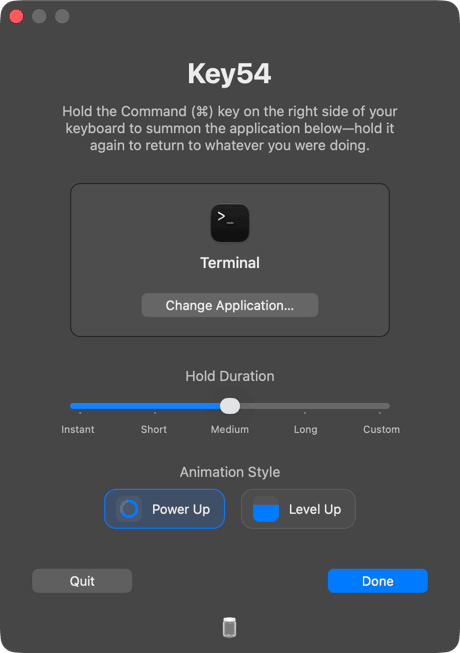
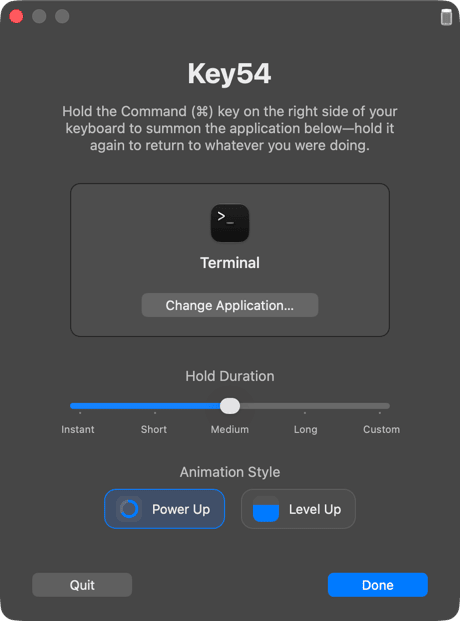
v1.10: Move Tip Jar jar into the title bar; clean up README
- main.swift: relocate the 🫙 easter egg from a centered button
  below the buttons to the title bar's top-right, mirroring the
  traffic lights (~14 pt). Bottom bar shrinks 96→64 pt; popover
  opens to the right of the jar.
- README.md: replace broken :emoji_2318: / :emoji_2615: shortcodes
  with valid GitHub ones (:keyboard:, :coffee:); drop the
  Susan Kare / 'PLACE OF INTEREST SIGN' paragraph.
- screenshots/settings.png: re-capture to match the new layout.
- Info.plist: bump CFBundleVersion / ShortVersionString to 1.10.

diff --git a/main.swift b/main.swift
@@ -631,7 +631,7 @@ class SettingsWindow: NSWindow {
         let showsAnimationStyle = (appDelegate?.selectedPreset ?? 2) >= 2
         let animationStyleBlockH: CGFloat = 68   // caption + a row of two selectable pills
         let customBlockH: CGFloat = showsCustom ? 132 : 0   // Custom timing sub-panel
-        let bottomBarH: CGFloat = 96    // Quit / Done row + coffee link + bottom margin
+        let bottomBarH: CGFloat = 64    // Quit / Done row + bottom margin
         let unitGap: CGFloat = 10       // within a unit (title ↔ description)
         let sectionGap: CGFloat = 28    // between sections — the layout's rhythm
 
@@ -840,10 +840,9 @@ class SettingsWindow: NSWindow {
             }
         }
 
-        // Bottom bar: Quit (secondary, left) + Done (primary, right), with the
-        // coffee link as its own quieter unit below.
+        // Bottom bar: Quit (secondary, left) + Done (primary, right).
         let btnW: CGFloat = 100
-        let barY: CGFloat = 56
+        let barY: CGFloat = 20
         let quitBtn = NSButton(title: "Quit", target: NSApp, action: #selector(NSApplication.terminate(_:)))
         quitBtn.frame = NSRect(x: pad, y: barY, width: btnW, height: 32)
         quitBtn.bezelStyle = .rounded
@@ -855,18 +854,19 @@ class SettingsWindow: NSWindow {
         doneBtn.keyEquivalent = "\r"
         c.addSubview(doneBtn)
 
-        // A lone jar emoji, centered below the buttons — a little easter egg
-        // that opens the support popover. No label; tooltip + pointing-hand
-        // cursor (LinkButton) hint that it's clickable.
+        // Tip Jar easter egg: a lone jar emoji tucked into the top-right of the
+        // titlebar, mirroring the traffic lights on the left. Tooltip + hand
+        // cursor (LinkButton) hint it's clickable; NSControl isn't part of the
+        // titlebar drag region, so the click still registers.
         let tipBtn = LinkButton(title: "", target: self, action: #selector(openTipJar(_:)))
         tipBtn.isBordered = false
-        // Center the emoji in the button via a centered paragraph style (more
-        // reliable than .alignment for a borderless title button).
         let jarPara = NSMutableParagraphStyle(); jarPara.alignment = .center
         tipBtn.attributedTitle = NSAttributedString(string: "🫙", attributes: [
-            .font: NSFont.systemFont(ofSize: 18), .paragraphStyle: jarPara])
+            .font: NSFont.systemFont(ofSize: 14), .paragraphStyle: jarPara])   // sized to ~match the traffic lights
         let tipW: CGFloat = 34
-        tipBtn.frame = NSRect(x: (contentW - tipW) / 2, y: 12, width: tipW, height: 26)
+        // Mirror the traffic lights: the jar's top/right padding matches their
+        // top/left padding (≈9 pt each).
+        tipBtn.frame = NSRect(x: contentW - 30, y: totalH - 30, width: tipW, height: 26)
         tipBtn.toolTip = "Tip Jar"
         c.addSubview(tipBtn)
 
@@ -1074,7 +1074,7 @@ class SettingsWindow: NSWindow {
         pop.contentSize = NSSize(width: w, height: h)
         pop.behavior = .transient
         tipPopover = pop
-        pop.show(relativeTo: sender.bounds, of: sender, preferredEdge: .maxY)
+        pop.show(relativeTo: sender.bounds, of: sender, preferredEdge: .maxX)   // opens to the right of the jar
     }
 
     @objc private func openIssues() {

diff --git a/README.md b/README.md
@@ -2,15 +2,15 @@
 
 # Key54
 
-*Your right-hand ⌘.*
+*Your right-hand :keyboard:.*
 
-**Hold the Command (⌘) key on the right side of your keyboard to summon one chosen app — hold it again to switch back to whatever you were doing.**
+**Hold the Command (:keyboard:) key on the right side of your keyboard to summon one chosen app — hold it again to switch back to whatever you were doing.**
 
-Key54 isn't another app library switcher, launcher, or palette. It doesn't try to replace ⌘-Tab, Mission Control, or Spotlight, and it doesn't pile on the features that tools like Raycast, Alfred, LaunchBar, rcmd, or Monarch already do well. It does exactly one thing: a single, dedicated key for the *one* app you reach for constantly.
+Key54 isn't another app library switcher, launcher, or palette. It doesn't try to replace :keyboard:-Tab, Mission Control, or Spotlight, and it doesn't pile on the features that tools like Raycast, Alfred, LaunchBar, rcmd, or Monarch already do well. It does exactly one thing: a single, dedicated key for the *one* app you reach for constantly.
 
-There's nothing to launch, no fuzzy search, no list of shortcuts to memorize, and no chords. You pick the app once; after that it's pure muscle memory — like a push-to-talk button for your terminal, notes, browser, or chat. It claims the otherwise-dead *gesture* of holding the right ⌘ key, so quick taps and normal right-⌘ shortcuts keep working exactly as before (unless you opt into the Instant preset) — you give up nothing.
+There's nothing to launch, no fuzzy search, no list of shortcuts to memorize, and no chords. You pick the app once; after that it's pure muscle memory — like a push-to-talk button for your terminal, notes, browser, or chat. It claims the otherwise-dead *gesture* of holding the right :keyboard: key, so quick taps and normal right-:keyboard: shortcuts keep working exactly as before (unless you opt into the Instant preset) — you give up nothing.
 
-And it's calm by design. Instead of racing to ⌘-Tab across your desktop and back, you hold the key and it charges for a beat before it fires — a small, deliberate pause that lets your brain settle into the switch (dial it to Instant if you'd rather skip it). One key, one app, no chord to remember: a context switch that gives you a moment to breathe.
+And it's calm by design. Instead of racing to :keyboard:-Tab across your desktop and back, you hold the key and it charges for a beat before it fires — a small, deliberate pause that lets your brain settle into the switch (dial it to Instant if you'd rather skip it). One key, one app, no chord to remember: a context switch that gives you a moment to breathe.
 
 It's fast, tiny (2.3 MB), uses almost zero system resources, and stays out of the way: no Dock icon, no menu bar clutter.
 
@@ -36,10 +36,10 @@ Open the `.dmg` and drag **Key54** into your `Applications` folder.
 
 ## Features
 
-- Hold right-⌘ to toggle a single chosen app in and out of focus.
-- **One key, held — no chord.** No ⌘-key combination, no rapid tapping, no sequence to remember; just hold one key. Pure muscle memory, and a gentler reach than ⌘-Space or ⌘-Tab (see [Accessibility](#accessibility)).
+- Hold right-:keyboard: to toggle a single chosen app in and out of focus.
+- **One key, held — no chord.** No :keyboard:-key combination, no rapid tapping, no sequence to remember; just hold one key. Pure muscle memory, and a gentler reach than :keyboard:-Space or :keyboard:-Tab (see [Accessibility](#accessibility)).
 - Works with **any** application of your choice.
-- **Hold Duration presets** (Instant / Short / Medium / Long / Custom) with a built-in **Key Delay**, so a quick press or normal right-⌘ shortcut is never hijacked. **Instant** skips the animation entirely and switches the moment you press; **Custom** lets you tune the timings yourself.
+- **Hold Duration presets** (Instant / Short / Medium / Long / Custom) with a built-in **Key Delay**, so a quick press or normal right-:keyboard: shortcut is never hijacked. **Instant** skips the animation entirely and switches the moment you press; **Custom** lets you tune the timings yourself.
 - A subtle **charge animation** plays as you hold and dissolves as it switches, on a Liquid Glass bezel (macOS 26+; frosted glass on older systems). Pick from two [Animation Styles](#animation-style) — **Power Up** (a glowing ring) or **Level Up** (a filling level) — both following the accent color you've chosen in System Settings.
 - Correctly returns you to the previous app — including full-screen apps and apps with no open windows.
 - Runs silently as a background agent (no Dock icon, no menu bar), and starts at login.
@@ -60,18 +60,18 @@ Whatever you assign as your **Key54**, the pattern is the same: **summon → do 
 
 ## Accessibility
 
-Key54 needs only a **single key, held** — the right ⌘ key on its own, no multi-finger chord, no rapid tapping, no sequence to remember. For anyone who finds combinations like ⌘-Space or ⌘-Tab hard to reach or hold, holding one key to bring an app forward — and holding it again to go back — can be a genuinely simpler way to move between apps.
+Key54 needs only a **single key, held** — the right :keyboard: key on its own, no multi-finger chord, no rapid tapping, no sequence to remember. For anyone who finds combinations like :keyboard:-Space or :keyboard:-Tab hard to reach or hold, holding one key to bring an app forward — and holding it again to go back — can be a genuinely simpler way to move between apps.
 
 The timing is forgiving, too: a quick or accidental press does nothing, and you can let go any time before the animation fills to cancel. Key54 was built as a convenience, but the same no-chord, no-reach interaction turns out to be an accessibility aid — and honestly, a little easier for everyone.
 
 ## Hold Duration
 
-The slider in settings controls how long you hold the right ⌘ key before the switch fires — and how much ceremony comes with it. Short, Medium, and Long each start with a brief **Key Delay** (nothing appears yet, and letting go does nothing), followed by the charge animation you can watch fill. Release any time before it completes and the switch is cancelled.
+The slider in settings controls how long you hold the right :keyboard: key before the switch fires — and how much ceremony comes with it. Short, Medium, and Long each start with a brief **Key Delay** (nothing appears yet, and letting go does nothing), followed by the charge animation you can watch fill. Release any time before it completes and the switch is cancelled.
 
 | Preset | Hold to trigger | Behavior |
 | --- | --- | --- |
-| **Instant** | A press — no hold | Completely hands the right ⌘ key to Key54: no hold, no delay, no animation — the moment you press, you've switched. Quick taps and right-⌘ shortcuts trigger it too, so pick this only if you're dedicating the key. |
-| **Short** | ~0.5 s | A snappy switch that still leaves normal right-⌘ shortcuts usable — anything shorter than the half-second Key Delay is ignored. No charge animation; the app's icon simply appears and dissolves into the switch. |
+| **Instant** | A press — no hold | Completely hands the right :keyboard: key to Key54: no hold, no delay, no animation — the moment you press, you've switched. Quick taps and right-:keyboard: shortcuts trigger it too, so pick this only if you're dedicating the key. |
+| **Short** | ~0.5 s | A snappy switch that still leaves normal right-:keyboard: shortcuts usable — anything shorter than the half-second Key Delay is ignored. No charge animation; the app's icon simply appears and dissolves into the switch. |
 | **Medium** *(default)* | ~0.9 s (0.5 s Key Delay + 0.4 s animation) | The best mix: enough delay to cancel the switch early just by letting go, a smooth transition that supports a more graceful mental shift between tasks, and still quick and responsive. |
 | **Long** | ~1.3 s (0.7 s Key Delay + 0.6 s animation) | An even more generous, deliberate task-switching experience — maximum time to watch it fill and change your mind. |
 | **Custom** | Your call — up to 1.5 s + 1.5 s | Build your own: **Key Delay** and **Animation Length** sliders appear in a panel below, adjustable in 0.05 s steps — and your values are remembered, even while trying other presets. A zero Animation Length gives Short's icon-only flash; zero both and it behaves like Instant. |
@@ -103,7 +103,7 @@ This compiles `main.swift`, generates the app icon (`make_icon.swift`), ad-hoc c
 
 1. Launch **Key54** from `Applications`. Its window opens.
 2. Grant **Accessibility** permission when prompted — System Settings → Privacy & Security → Accessibility → enable Key54. This lets it detect the right Command key.
-3. Click **Change Application…** and pick the app you want bound to the right ⌘ key.
+3. Click **Change Application…** and pick the app you want bound to the right :keyboard: key.
 4. Optionally pick a **Hold Duration** preset (how long you hold before it triggers) — or choose **Custom** and dial in your own timings — and an **Animation Style** (Power Up or Level Up).
 5. Click **Done**. Key54 keeps running in the background (and starts automatically at login).
 
@@ -151,11 +151,6 @@ claims. (You can see it in the source: the event tap watches for `keycode 54`.)
 So **Key54** is literally that — the key, named by its number; the app's whole
 job written as a coordinate.
 
-There's a second layer, too. The ⌘ symbol is `U+2318`, which Unicode officially
-names **"PLACE OF INTEREST SIGN."** Susan Kare borrowed the glyph — a looped
-square, or *Bowen knot* — from Swedish road signs that mark a spot worth
-visiting. Which is a fitting origin for a key whose whole purpose here is to take
-you to the one place you care about, then loop you right back.
 
 ## Notes
 
@@ -165,8 +160,8 @@ This app uses a global event tap and controls other applications, which is incom
 
 Key54 is free and open source. If it earns a spot on your Mac, please support its development:
 
-- ☕ [Buy me a coffee on Ko-fi](https://ko-fi.com/grokcodile)
-- ❤️ [Sponsor me on GitHub](https://github.com/sponsors/grokcodile)
+- :coffee: [Buy me a coffee on Ko-fi](https://ko-fi.com/grokcodile)
+- :heart: [Sponsor me on GitHub](https://github.com/sponsors/grokcodile)
 
 ## License
 